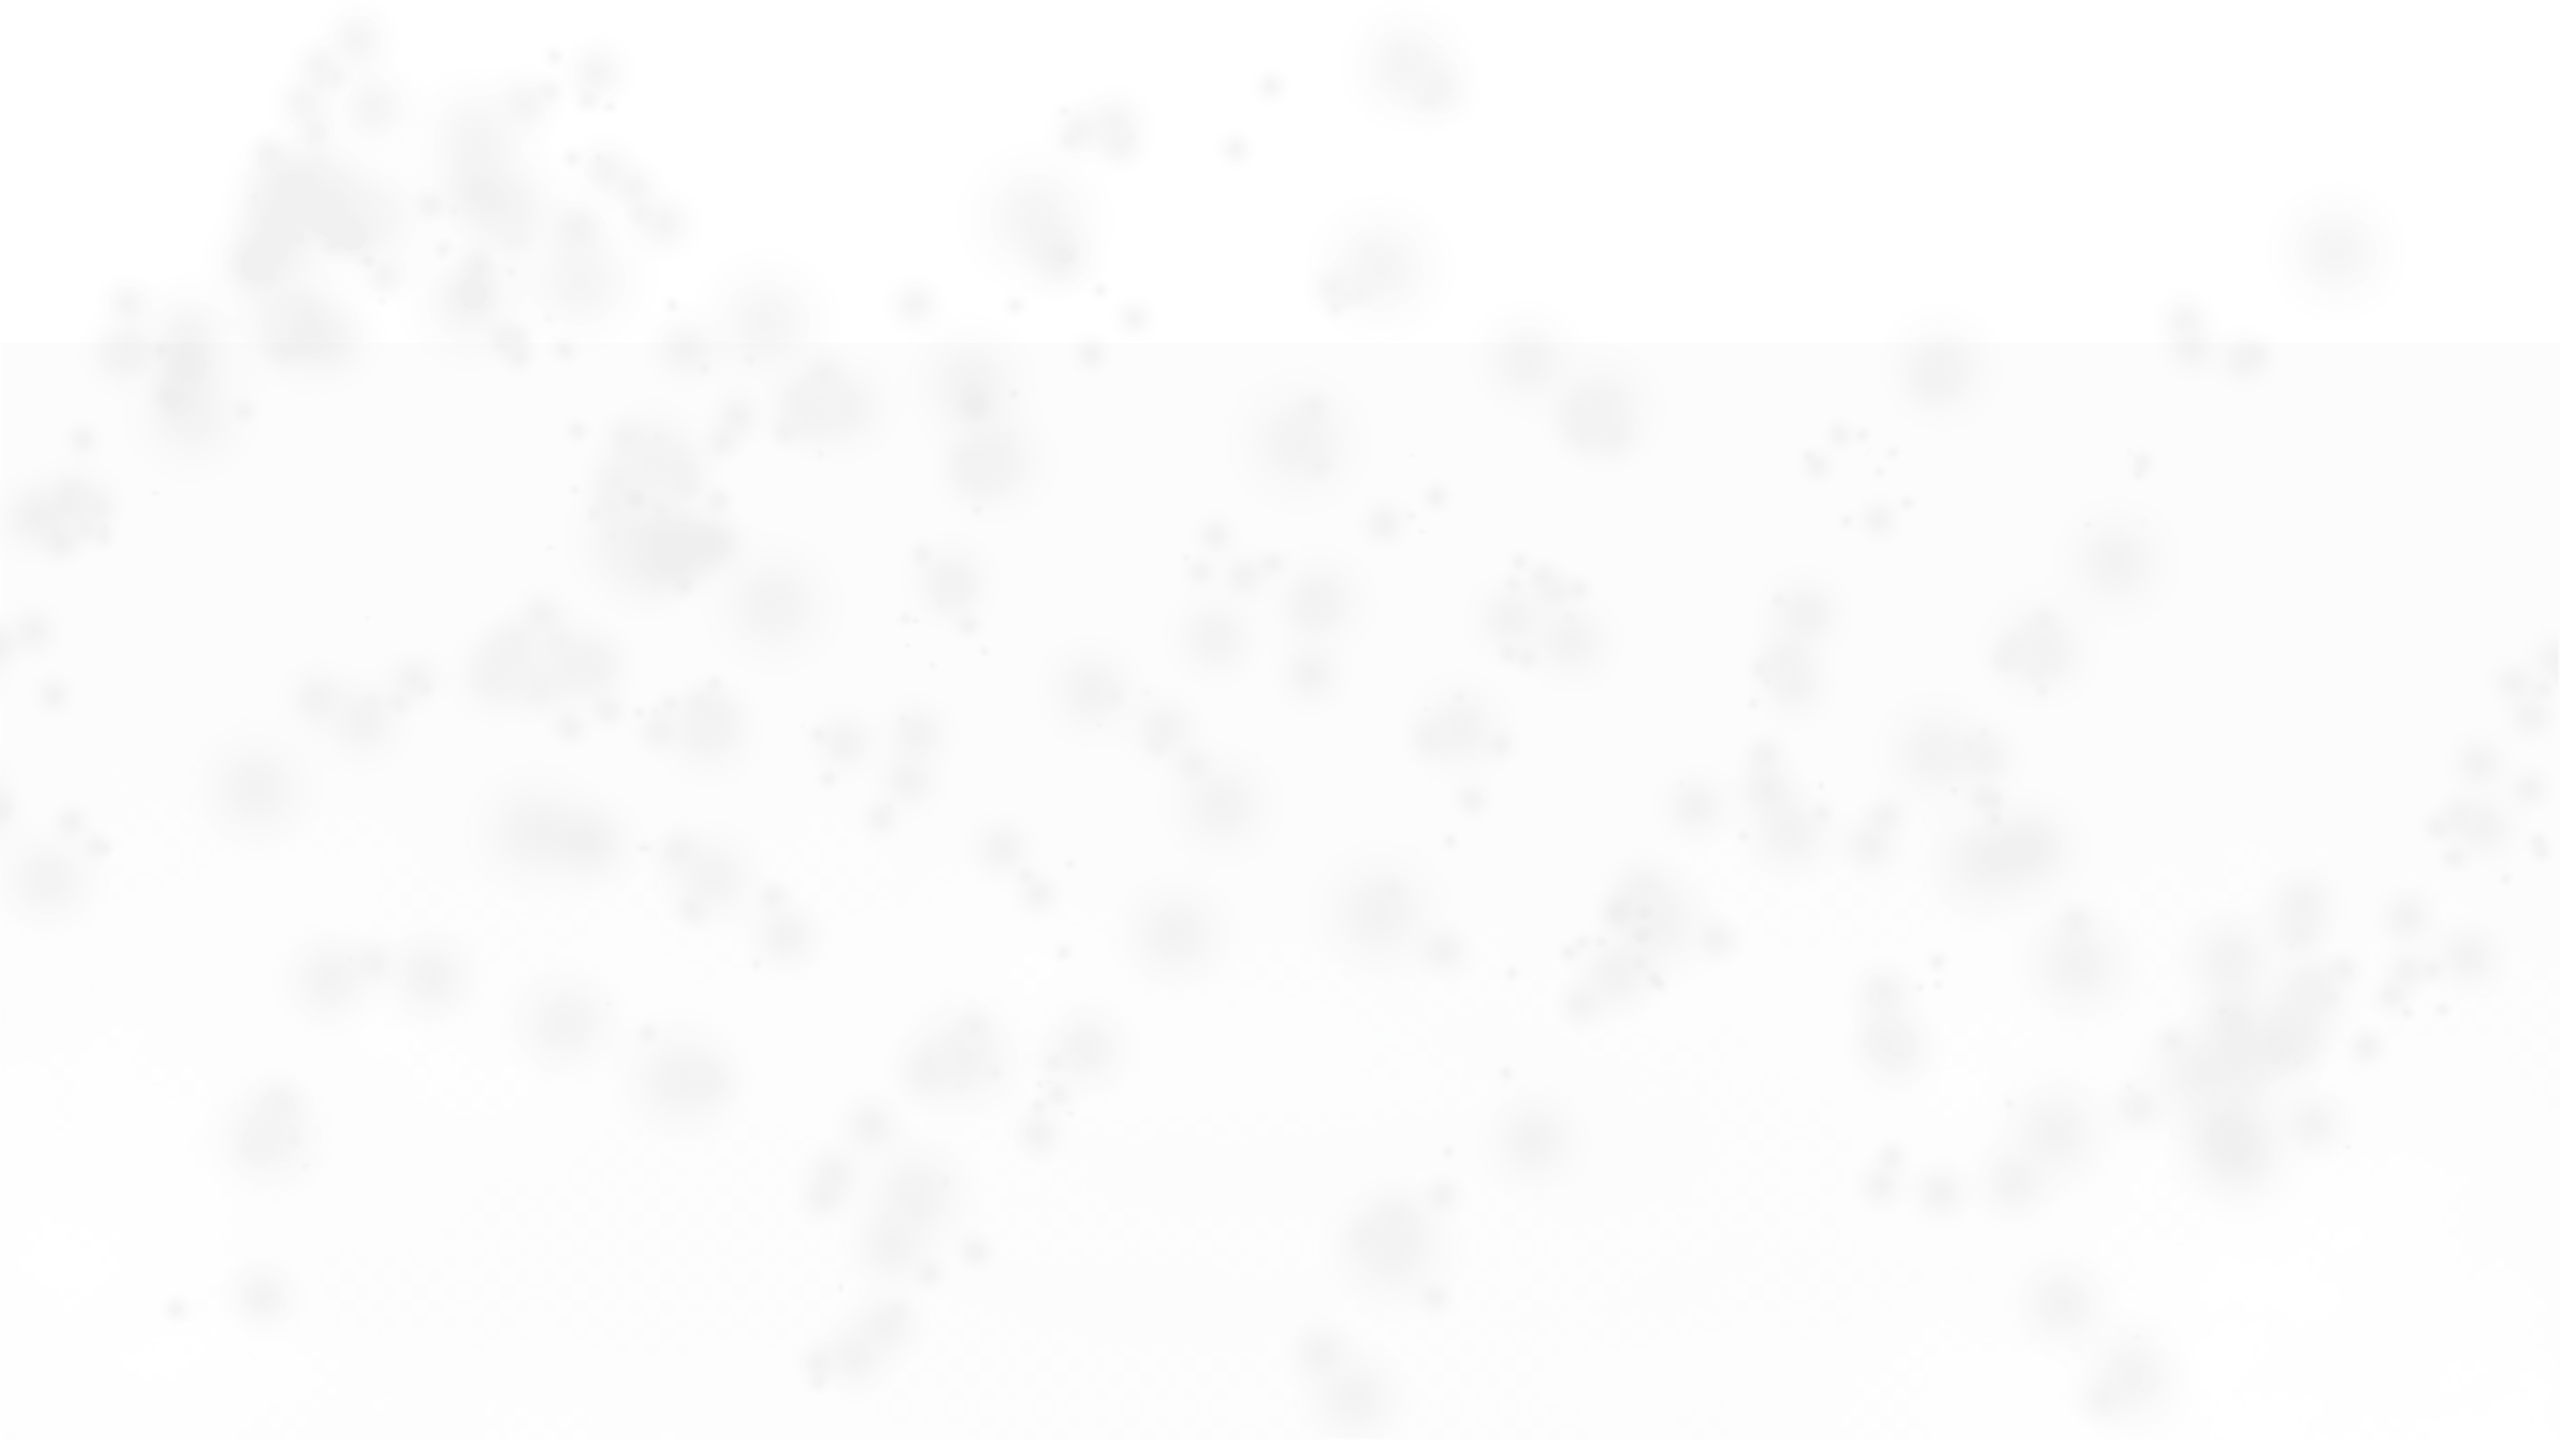
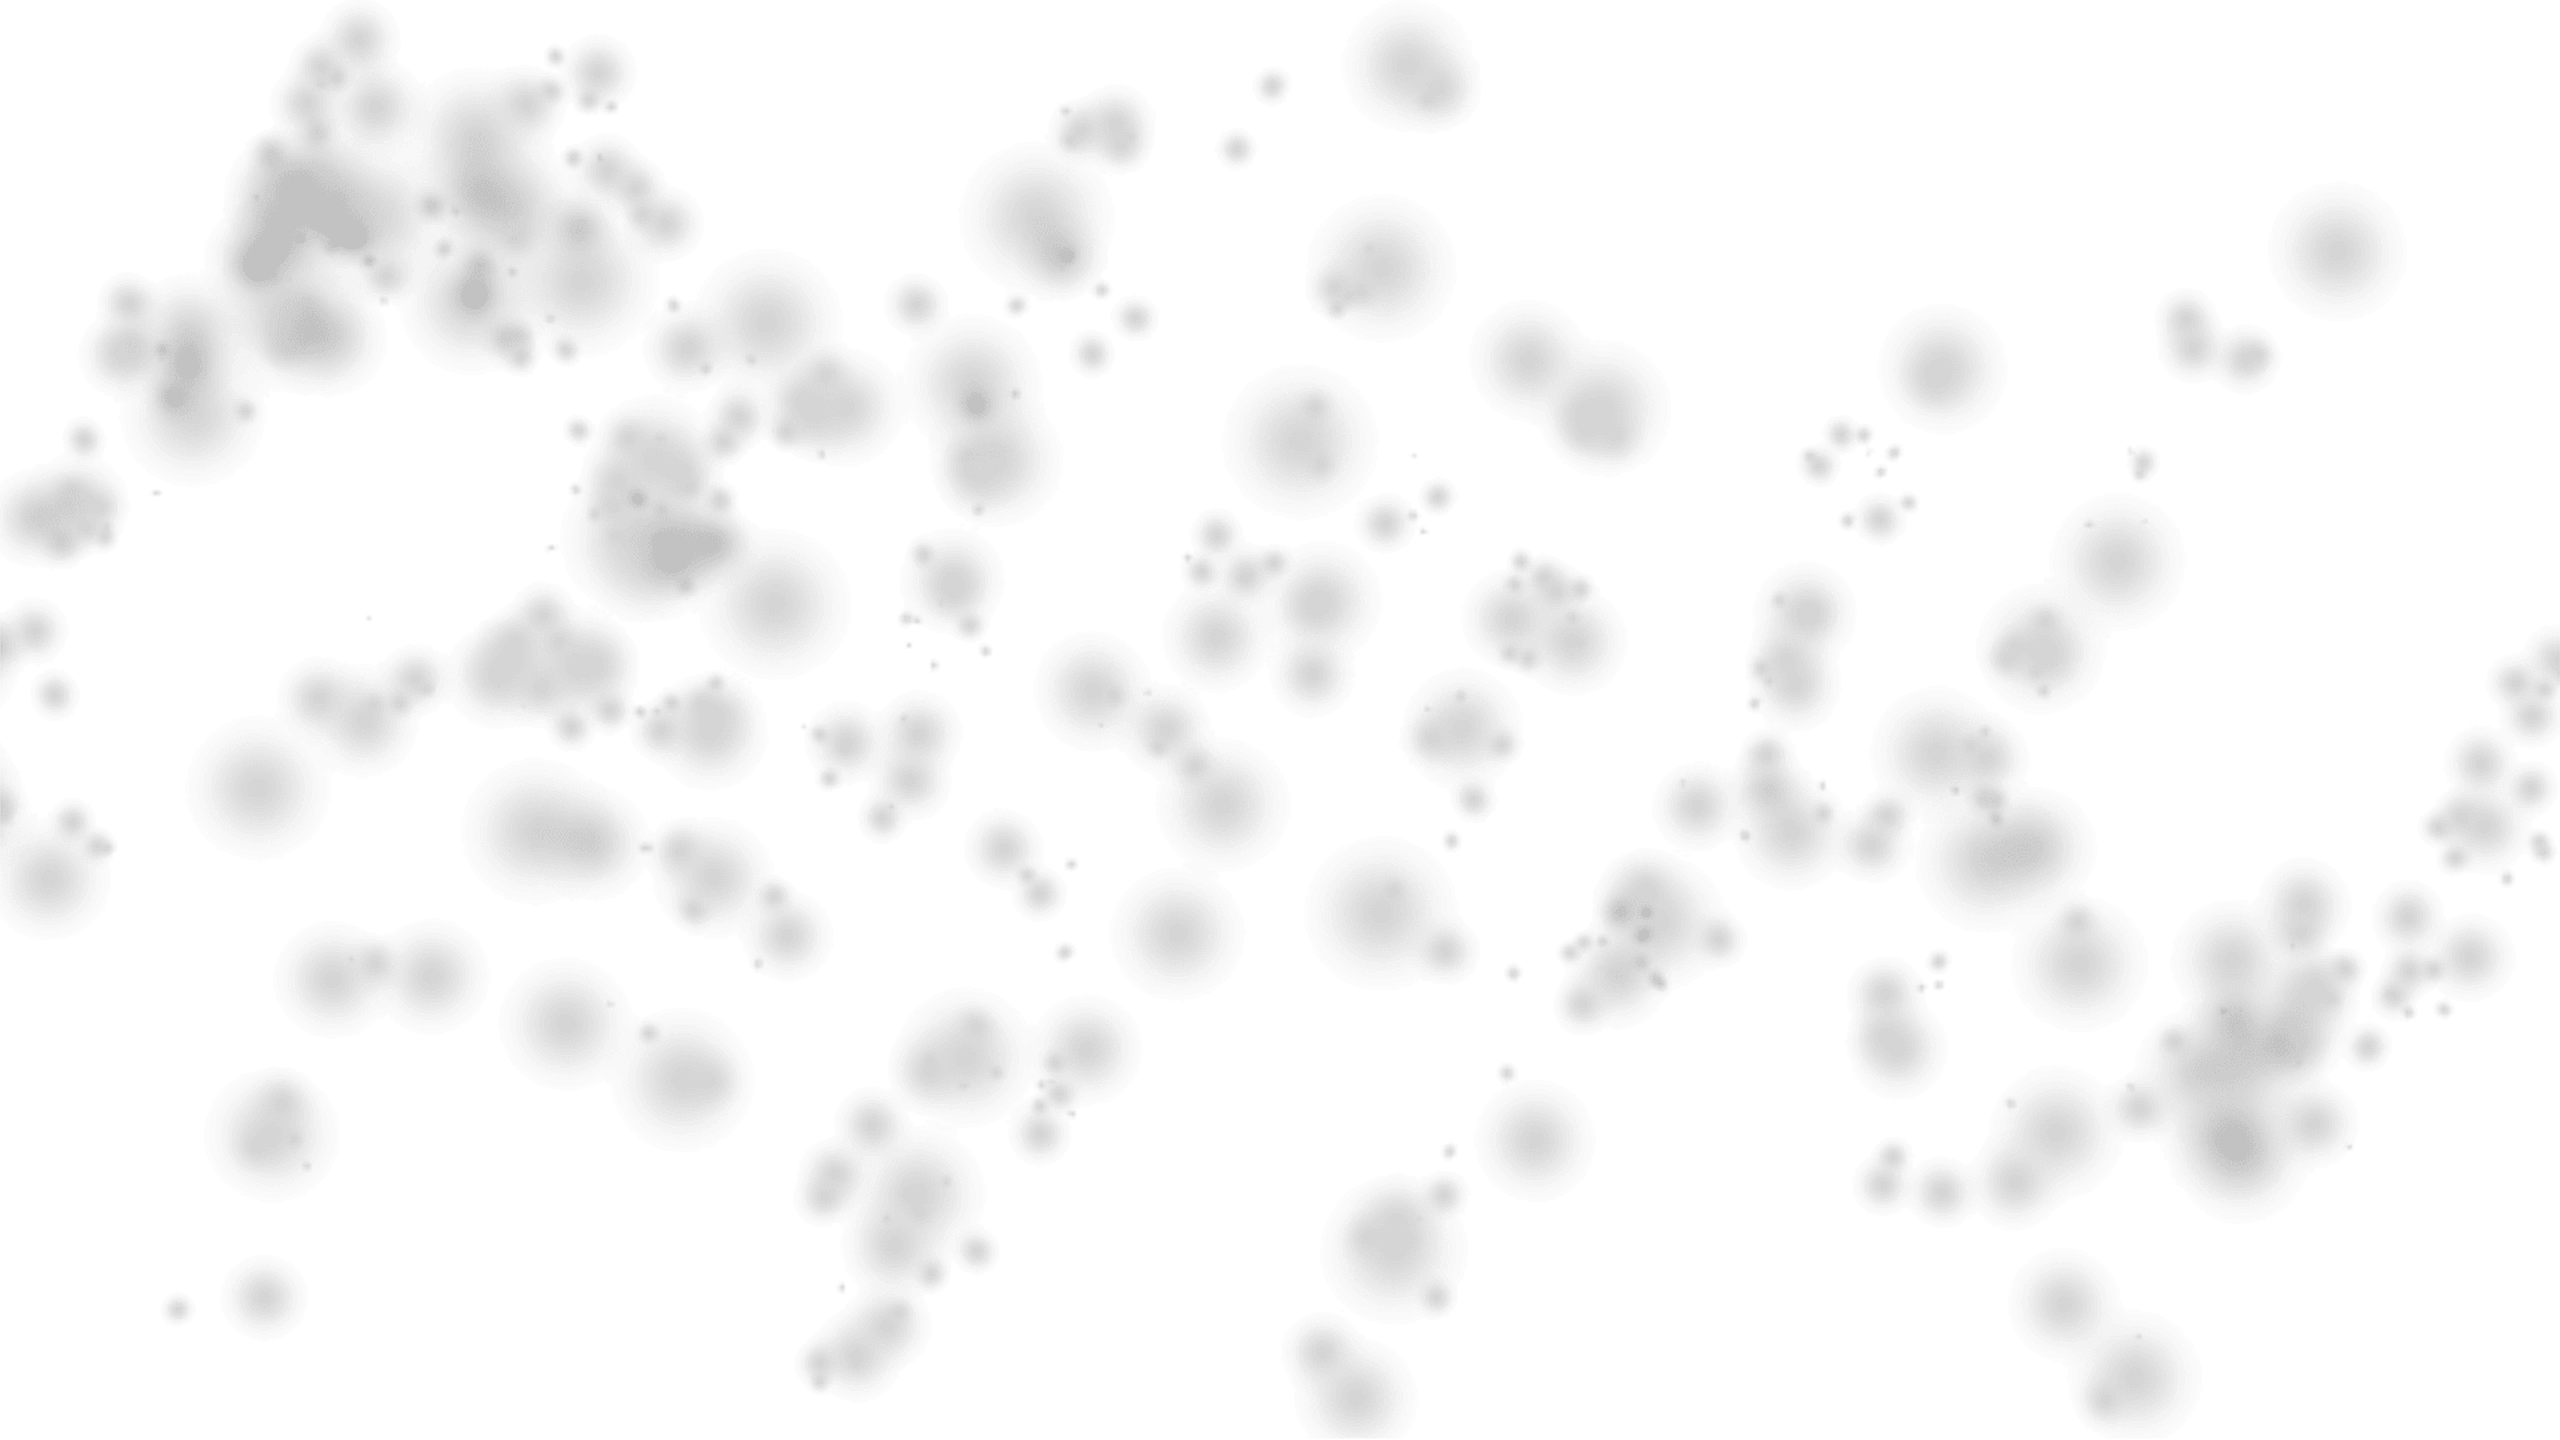
продолжил малёха
43 миниута

diff --git a/css/style.css b/css/style.css
@@ -26,21 +26,41 @@ body {
 	height: 150px;
 	background-repeat: no-repeat;
 	position: absolute;
+	left: 50%;
+	top: 10%;
+	z-index: 1;
 }
 .layers{
 	perspective: 1000px;
+	overflow: hidden;
 }
 .layers__container{
 	height: 100vh;
 	transform-style: preserve-3d;
+	transform: rotateX(var(--move-y)) rotateY(var(--move-x));
 }
 .layers__item{
 	position: absolute;
-	top: 0;
-	right: 0;
-	left: 0;
-	bottom: 0;
+	inset: -5vw;
 	background-size: cover;
 	background-position: center;
-	transform: rotateX(30deg) rotateY(30deg);
+}
+
+.layer-1 {
+	transform: translateZ(-60px) scale(1.06);
+}
+.layer-2 {
+	transform: translateZ(380px) scale(.9);
+}
+.layer-3 {
+	transform: translateZ(180px) scale(.9);
+}
+.layer-4 {
+	transform: translateZ(190px) scale(.9);
+}
+.layer-5 {
+	transform: translateZ(300px) scale(.9);
+}
+.layer-6 {
+	transform: translateZ(380px) scale(.8);
 }

diff --git a/index.html b/index.html
@@ -23,7 +23,7 @@
 				</div>
 			</div>
 			<div class="layers__item layer-4">
-				<!-- <canvas class="rain"></canvas> -->
+				<canvas class="rain"></canvas>
 			</div>
 			<div class="layers__item layer-5" style="background-image: url(img/point-red-light-layer-1.png);"></div>
 			<div class="layers__item layer-6" style="background-image: url(img/red-light-layer0.png);"></div>

diff --git a/js/app.js b/js/app.js
@@ -1,0 +1,8 @@
+document.addEventListener('mousemove', e => {
+	Object.assign(document.documentElement, {
+		style: `
+		--move-x: ${(e.clientX - window.innerWidth / 2) * -.01}deg;
+		--move-y: ${(e.clientY - window.innerHeight / 2) * .005}deg;
+		`
+	})
+})
